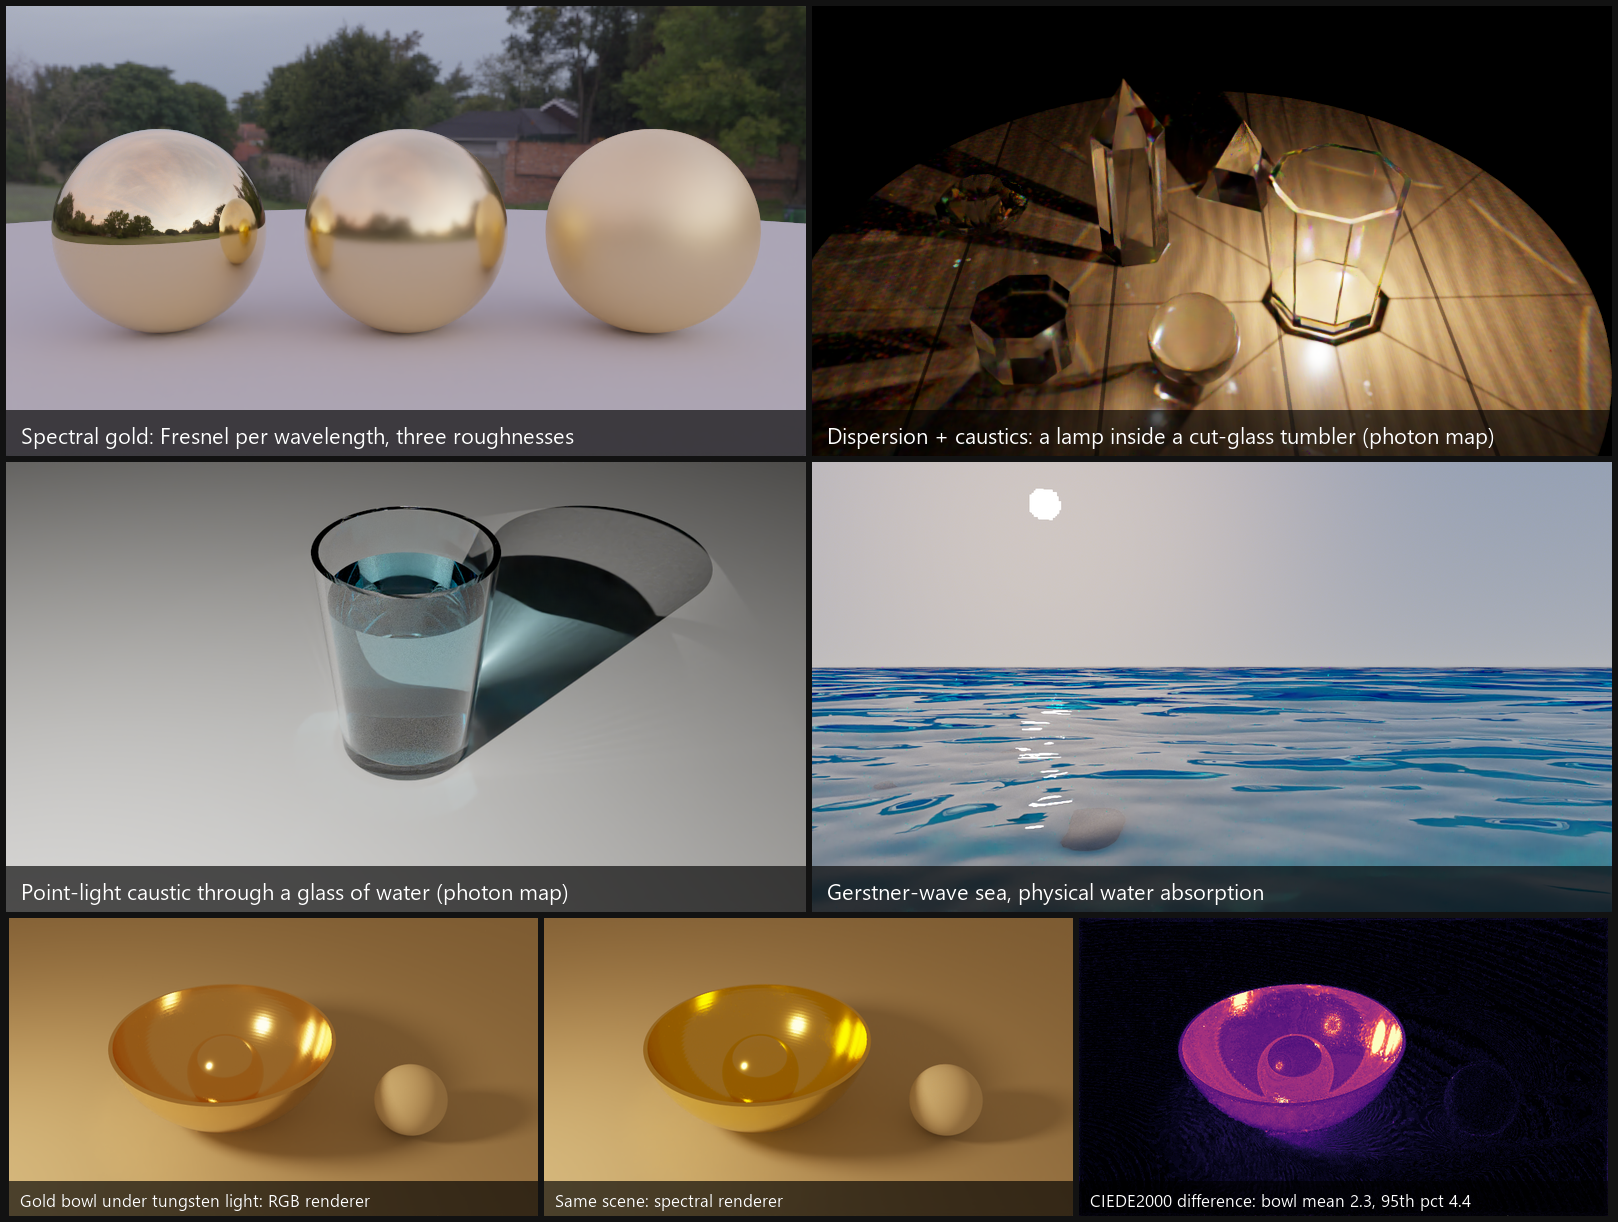
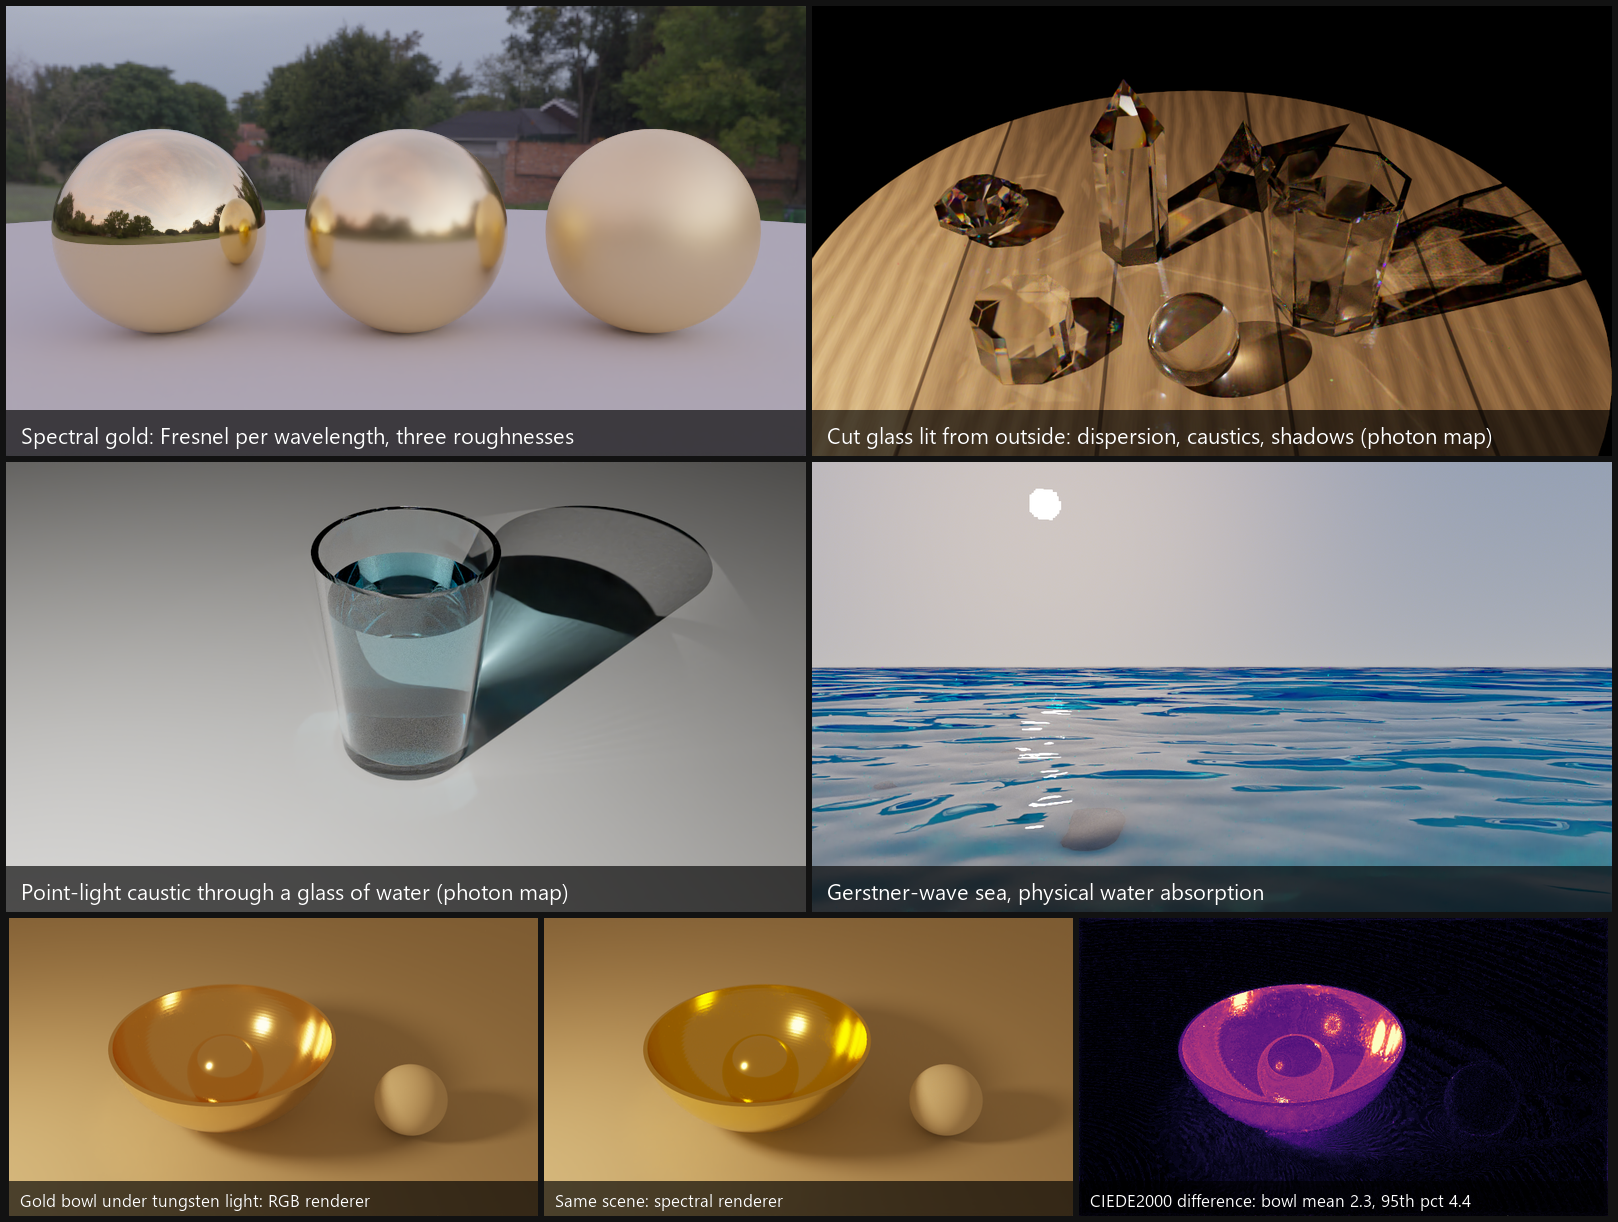
README: Gallery section; hero shows the crystal scene lit from outside
The hero's top-right panel is now the cut glass lit by an outside point light (glass texture, shadows, caustics on a wood
floor) instead of the lamp inside the tumbler. New Gallery section: the lamp inside the tumbler, the same scene under
different lights (spectral vs RGB), the caustic of a prism (no caustic / photon map / specular manifold NEE), skin
subsurface scattering, and a character render (model credits and terms noted; the model itself is not in the repository).

Changed region(s): [[0.4944, 0.0622, 1.0, 0.3732]]

diff --git a/README.md b/README.md
@@ -3,7 +3,7 @@
 ![GoLD_rayt: spectral gold, dispersion and caustics, water, and RGB vs spectral gold](docs/img/hero.png)
 
 <sub>All images were rendered by this project on the CPU (OIDN-denoised). Top, in spectral mode: gold spheres
-(`--scene gold`), a lamp inside a cut-glass tumbler (`--scene crystal --crystal-inside`), a glass of water lit by a
+(`--scene gold`), cut-glass pieces lit from outside by a point light (`--scene crystal`), a glass of water lit by a
 point light (`--scene water --water-lamp`), and a Gerstner-wave sea (`--scene sea`); the caustics use a photon map.
 Bottom: the same gold bowl under a tungsten light (`--scene goldbowl --light tungsten`) rendered by the RGB build and by
 the spectral build, and the CIEDE2000 difference between the two
@@ -101,6 +101,47 @@ Full write-up with all tables (Japanese): [`docs/METAL_ACCURACY.md`](docs/METAL_
 python tools/metal_accuracy.py --true-cmf --figs docs/img > docs/metal_accuracy_results.txt
 ```
 
+## Gallery
+
+More renders from the same engine (CPU, OIDN-denoised).
+
+**A lamp inside a cut-glass tumbler** (`--scene crystal --crystal-inside`, caustic photon map with eight independent
+photon sets averaged). Every ray of the lamp leaves through the glass, so all the light on the table is caustic:
+sharp-edged polygons from the flat facets, with colored rims from dispersion.
+
+![A lamp inside a cut-glass tumbler: the table is lit only by light that crossed the glass](docs/img/gallery_crystal_lamp.png)
+
+**The color of the light** (`--scene spd --light d65|tungsten|led`, `--wb` = white balance): five colored diffuse
+spheres and a gold one under one sphere light, rendered with the spectrum of the light. In the spectral renderer the
+whole scene takes the color of the light and the spheres change by different amounts; white balancing the film brings the neutral surfaces back but not the colors. The RGB mode (middle right) matches the
+white but not the colors, by design.
+
+![Five spheres and gold under D65, tungsten and an LED light, with and without white balance, spectral and RGB](docs/img/gallery_lights.png)
+
+**A caustic through a prism** (`--scene manifold`, point light): without caustics, with the photon map, and with the
+*specular manifold NEE*, a prototype that solves the refraction path through the prism's flat faces instead of
+estimating it with photons. The photon map blurs the edge of the dispersed band over its gather radius; the solved
+path keeps it sharp. Both estimators agree within a few percent on the smooth parts of the pattern (checked at
+sample points and over the whole floor by `--scene manifoldtest`).
+
+![A prism's caustic: no caustic, photon map, specular manifold NEE, and a 3x crop of the edge of the band](docs/img/gallery_prism_caustic.png)
+
+**Skin** (`--scene skindemo`, [docs/SSS.md](docs/SSS.md)): a sphere and a torus with the same skin material, without
+subsurface scattering, with the real skin scattering distances, and with them tripled for an anime-like softness.
+
+![Subsurface scattering of skin: off, real distances, three times the distances](docs/img/gallery_skin_sss.png)
+
+**A character** (`--scene pmx --pmx-studio --sss`, [section 4](#4-character-rendering-hobby)): physically based hair,
+eyes, metal ornaments and skin with subsurface scattering, under studio lights, in a pose read from a VPD file.
+
+![An MMD character in a studio, full body and close-up](docs/img/gallery_character.png)
+
+<sub>Model: 桑多涅 (miHoYo; modified by 观海), used according to the model's terms of use (no redistribution, no
+commercial use): the model is not part of this repository, only these renderings are shown. Pose: アラベスクポーズ
+by mototo=toto. These are rendering tests of this project and have no connection with the model's authors.</sub>
+
+---
+
 ## Aurisidus
 
 > **Aurisidus** is a coined term derived from Latin
@@ -113,7 +154,7 @@ python tools/metal_accuracy.py --true-cmf --figs docs/img > docs/metal_accuracy_
 
 ## Contents
 
-0. [RGB vs spectral error for metals](#how-much-does-rgb-rendering-get-wrong-for-metals)
+0. [RGB vs spectral error for metals](#how-much-does-rgb-rendering-get-wrong-for-metals), [Gallery](#gallery)
 1. [Metals and spectral rendering](#1-metals-and-spectral-rendering) (the main topic)
 2. [Quick start](#2-quick-start)
 3. [The renderer in general](#3-the-renderer-in-general)
